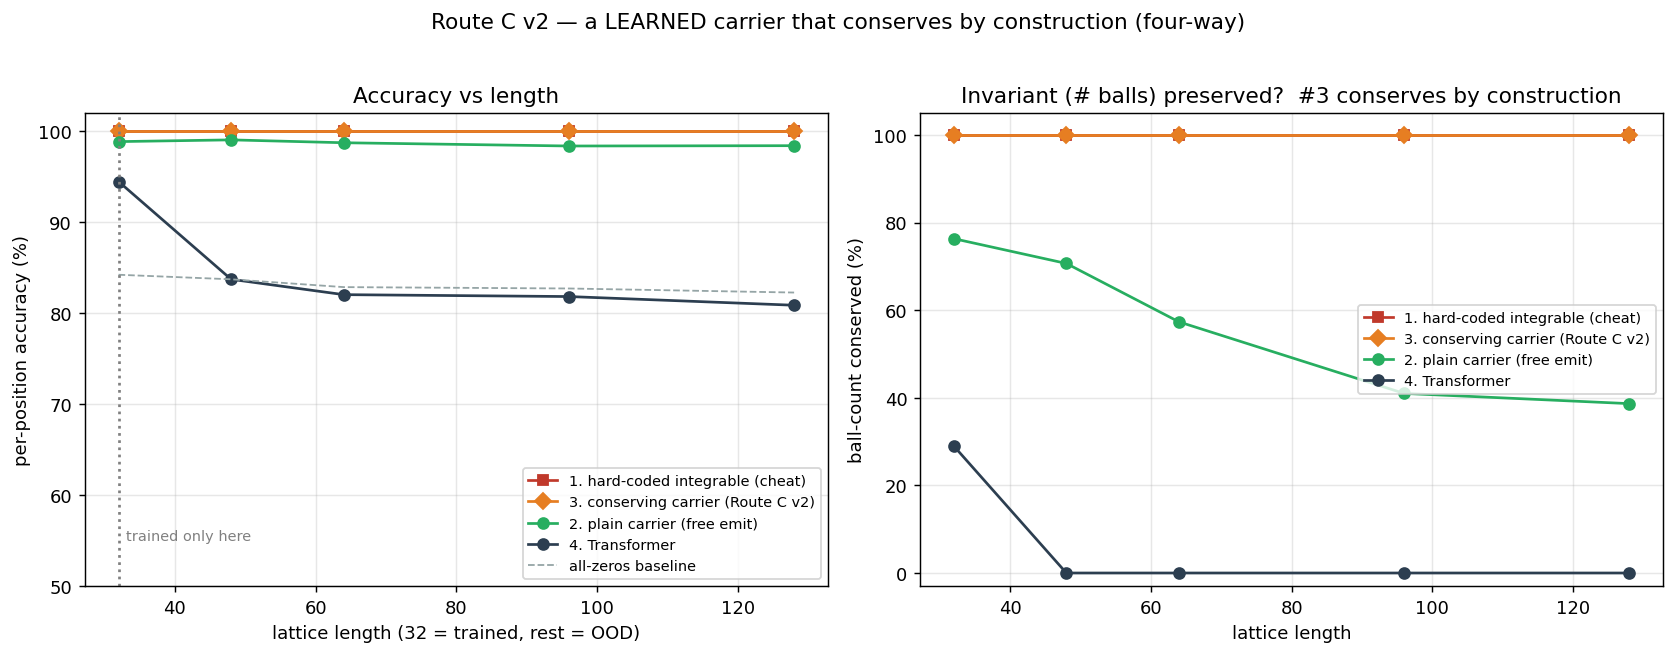
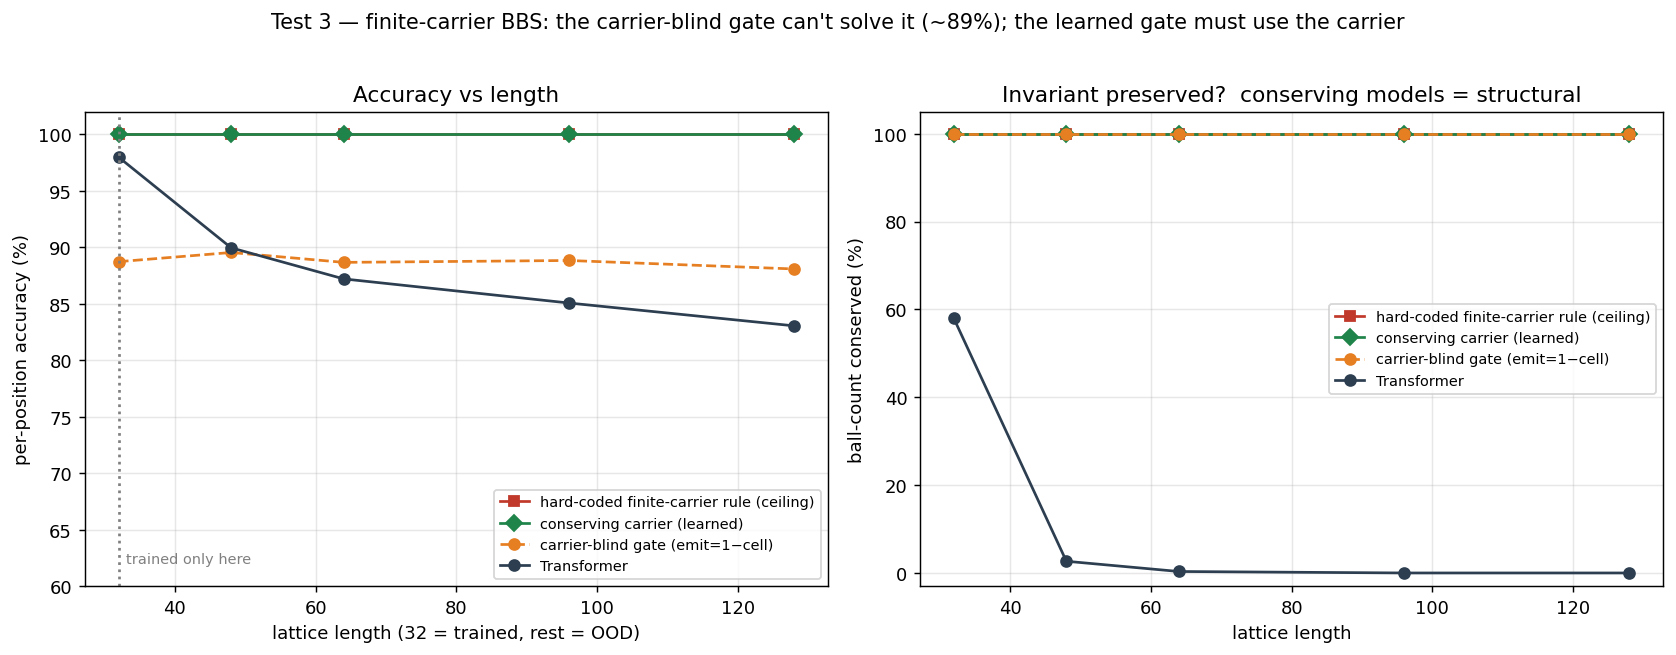
experiments: build & run the finite-carrier Test 3 (real result)
Rewrite 03_conserving_carrier.py for finite-carrier BBS (K=2): carrier holds at
most K balls; when full an arriving ball must pass through, so the emit decision
must read the carrier count k. Self-check verifies the target is conserved +
reversible before training.

Result (committed run): carrier-blind gate (emit=1-cell) tops out at ~88-89%;
the learned conserving carrier reaches 100% at every OOD length (32->128) and is
100% reversible (mirror trick) -> the ~11% gap is genuinely learned (0 on plain
BBS). Both conserving models hold 100% conservation (structural); the Transformer
collapses (58%->0%). Figure adds the carrier-blind line; Test 3 architecture
diagram updated to finite-carrier ('pass when full'). README tables filled with
real numbers (EN+zh); removed the 'still to build' notes.

diff --git a/integrable_reversible/experiments/box_ball_learned_vs_transformer/03_conserving_carrier.py b/integrable_reversible/experiments/box_ball_learned_vs_transformer/03_conserving_carrier.py
@@ -1,39 +1,48 @@
 """
-The conserving carrier (the proposal's Route C) — the reversible, mass-CONSERVING carrier.
+Test 3 — conserving carrier on the FINITE-CARRIER Box-Ball System.
 
-The previous full-Route-C attempt (local gated-swap CA) had the guarantees but
-couldn't learn BBS. The fix: keep the CARRIER (left->right reach = expressive)
-but constrain its per-site update to CONSERVE ball count by construction.
+Plain BBS was dropped: welding conservation into the carrier makes its rule
+trivial (a hard-coded emit = 1 - cell already scores 100% — see the appendix in
+this folder's README). Finite-carrier BBS keeps the SAME conserving-carrier
+structure but bounds the carrier at K balls: when the carrier is FULL, an
+arriving ball must PASS THROUGH instead of being picked up. That makes the emit
+decision depend on the carrier count k, so a carrier-blind gate (emit = 1 - cell)
+can no longer solve it — the model must genuinely learn to use the carrier.
 
-Per-site update during the scan, with carrier count k and cell c:
-  total t = c + k  (the resource passing through this site)
-  the only two count-preserving outcomes (for t>=1) are:
-     "emit": out=1, k' = t-1        "hold": out=0, k' = t
-  a learned gate picks emit vs hold (for t=0 it is forced to hold).
-=> cell + carrier is preserved at every site, so sum(output) = sum(input) minus
-   whatever remains in the carrier at the end. With trailing zeros the carrier
-   empties, giving EXACT ball-count conservation. (BBS itself is just the fixed
-   rule "emit iff cell==0"; here that rule is learned.)
+Four lines:
+  1. hard-coded finite-carrier rule    -> ceiling
+  2. carrier-blind gate (emit=1-cell)   -> proves the residual is non-trivial (~89%)
+  3. conserving carrier (learned gate)  -> learns to use the carrier
+  4. Transformer                        -> no structure, collapses OOD
 
-Four lines: hard-coded integrable / conserving carrier (THIS) / plain carrier
-(free-emit, from the prototype) / Transformer. Trained on L=32, tested OOD.
+Conservation is structural (k' = t - out, holds for any gate). The finite-carrier
+BBS is verified conserved + reversible (mirror trick) before training. Trained on
+L=32, tested on 48/64/96/128.
 """
 import numpy as np, torch, torch.nn as nn, torch.nn.functional as F, math
 import matplotlib.pyplot as plt
 torch.manual_seed(0); np.random.seed(0); torch.set_num_threads(4)
 
-# ── integrable engine + data (same as the other experiments) ─────────────────
-def bbs_step(s):
-    out = np.zeros_like(s); carrier = 0
+K_CAP = 2; T_STEPS = 2; MAXSOL = 3
+
+# ── finite-carrier BBS: the carrier holds at most K balls ────────────────────
+def fc_step(s):
+    out = np.zeros_like(s); u = 0
     for i in range(len(s)):
-        if s[i] == 1: carrier += 1; out[i] = 0
+        if s[i] == 1:
+            if u < K_CAP: u += 1; out[i] = 0    # pick up (carrier has room)
+            else:         out[i] = 1            # carrier FULL -> ball passes through
         else:
-            if carrier > 0: out[i] = 1; carrier -= 1
+            if u > 0: out[i] = 1; u -= 1        # drop one
+            else:     out[i] = 0
     return out
-def bbs_run(s, T):
-    for _ in range(T): s = bbs_step(s)
+def fc_run(s, T):
+    s = s.copy()
+    for _ in range(T): s = fc_step(s)
     return s
-T_STEPS = 2; MAXSOL = 3
+def mirror(s): return s[::-1].copy()
+def fc_step_inv(s): return mirror(fc_step(mirror(s)))   # candidate inverse (mirror trick)
+
 def make_config(L, rng):
     s = np.zeros(L, dtype=np.int64); usable = int(L*0.55); i = 0; n = 0
     while i < usable - MAXSOL - 1:
@@ -46,8 +55,19 @@ def make_config(L, rng):
 def dataset(L, N, rng):
     X = np.zeros((N, L), dtype=np.int64); Y = np.zeros((N, L), dtype=np.int64)
     for j in range(N):
-        x = make_config(L, rng); X[j] = x; Y[j] = bbs_run(x, T_STEPS)
+        x = make_config(L, rng); X[j] = x; Y[j] = fc_run(x, T_STEPS)
     return torch.tensor(X), torch.tensor(Y)
+
+# ── verify the target dynamics is conserved + reversible (before any training) ─
+print("finite-carrier BBS self-check (random configs, K=%d):" % K_CAP)
+_rng = np.random.default_rng(1); _cons = _rev = True
+for L in [32, 48, 64, 96, 128]:
+    for _ in range(200):
+        x = make_config(L, _rng); y = fc_step(x)
+        if y.sum() != x.sum(): _cons = False
+        if not np.array_equal(fc_step_inv(y), x): _rev = False
+print(f"  ball-count conserved: {_cons}   reversible (mirror trick): {_rev}")
+assert _cons and _rev, "finite-carrier BBS is not conserved/reversible — fix the rule"
 
 # ── #4 Transformer ───────────────────────────────────────────────────────────
 class PE(nn.Module):
@@ -64,122 +84,100 @@ class TF(nn.Module):
         s.enc = nn.TransformerEncoder(enc, layers); s.head = nn.Linear(d, 2)
     def forward(s, x): return s.head(s.enc(s.pe(s.emb(x))))
 
-# ── #2 plain carrier (free emit, no conservation) — the prototype baseline ───
-class PlainCarrier(nn.Module):
-    def __init__(s, H=24, hid=64):
-        super().__init__(); s.H = H
-        s.net = nn.Sequential(nn.Linear(1+H, hid), nn.GELU(), nn.Linear(hid, hid), nn.GELU())
-        s.out = nn.Linear(hid, 1); s.hnext = nn.Linear(hid, H)
-    def one(s, c):
-        B, L = c.shape; h = torch.zeros(B, s.H); outs = []
-        for i in range(L):
-            z = s.net(torch.cat([c[:, i:i+1], h], dim=1)); outs.append(s.out(z)); h = torch.tanh(s.hnext(z))
-        return torch.sigmoid(torch.cat(outs, dim=1))
-    def forward(s, x, steps=T_STEPS):
-        c = x.float()
-        for _ in range(steps): c = s.one(c)
-        return c
-
-# ── #3 conserving carrier (Route C v2): per-site count-preserving emit/hold ──
+# ── conserving carrier: conservation structural (k'=t-out); gate = learned OR blind ─
 class ConservingCarrier(nn.Module):
-    def __init__(s, hid=32, Kmax=6.0):
-        super().__init__(); s.Kmax = Kmax
+    def __init__(s, hid=32, Kmax=6.0, blind=False):
+        super().__init__(); s.Kmax = Kmax; s.blind = blind
         s.gate = nn.Sequential(nn.Linear(4, hid), nn.GELU(), nn.Linear(hid, hid), nn.GELU(), nn.Linear(hid, 1))
     def one(s, xf, hard):
-        B, L = xf.shape
-        k = torch.zeros(B)                       # carrier count (integer in hard mode)
-        xp = F.pad(xf, (1, 1))
-        outs = []
+        B, L = xf.shape; k = torch.zeros(B); xp = F.pad(xf, (1, 1)); outs = []
         for i in range(L):
             c = xf[:, i]
-            feat = torch.stack([c, k / s.Kmax, xp[:, i], xp[:, i + 2]], dim=-1)  # cell, carrier, L/R neighbor
-            e = torch.sigmoid(s.gate(feat).squeeze(-1))
-            if hard:
-                eh = (e > 0.5).float(); e = eh + (e - e.detach())   # straight-through (forward hard)
-            t = c + k
-            avail = torch.clamp(t, 0.0, 1.0)      # can emit at most min(t,1)
-            out_i = e * avail                     # emit -> 1, hold -> 0 (hard); conserves: k' = t - out
-            k = t - out_i
+            if s.blind:
+                e = 1.0 - c                        # carrier-blind fixed rule: no params, ignores k & neighbors
+            else:
+                feat = torch.stack([c, k / s.Kmax, xp[:, i], xp[:, i + 2]], dim=-1)
+                e = torch.sigmoid(s.gate(feat).squeeze(-1))
+                if hard:
+                    eh = (e > 0.5).float(); e = eh + (e - e.detach())   # straight-through
+            t = c + k; avail = torch.clamp(t, 0.0, 1.0)
+            out_i = e * avail; k = t - out_i                            # conserves cell+carrier
             outs.append(out_i)
-        return torch.stack(outs, dim=1), k        # (B,L), final carrier
-    def forward(s, x, steps=T_STEPS, hard=False):
+        return torch.stack(outs, dim=1), k
+    def forward(s, x, hard=False):
         c = x.float()
-        for _ in range(steps): c, _ = s.one(c, hard)
+        for _ in range(T_STEPS): c, _ = s.one(c, hard)
         return c
-    def final_carrier(s, x, hard=True):           # for diagnostics
-        c = x.float(); tot = 0.0
-        for _ in range(T_STEPS): c, k = s.one(c, hard); tot = k
-        return tot
 
-# ── train #2,#3,#4 on L=32 ───────────────────────────────────────────────────
-rng = np.random.default_rng(0); L_TRAIN = 32
-Xtr, Ytr = dataset(L_TRAIN, 2500, rng); B = 256
+# ── train Transformer + conserving carrier on L=32 ───────────────────────────
+rng = np.random.default_rng(0); Xtr, Ytr = dataset(32, 2500, rng); B = 256
 ce = nn.CrossEntropyLoss(); bce = nn.BCELoss()
 
-def fit(model, kind, epochs, lr):
-    opt = torch.optim.AdamW(model.parameters(), lr=lr)
-    for ep in range(epochs):
-        perm = torch.randperm(len(Xtr)); tot = 0.0
-        for i in range(0, len(Xtr), B):
-            idx = perm[i:i+B]
-            if kind == "tf":   loss = ce(model(Xtr[idx]).reshape(-1, 2), Ytr[idx].reshape(-1))
-            elif kind == "cc": loss = bce(model(Xtr[idx], hard=False).clamp(1e-6, 1-1e-6), Ytr[idx].float())
-            else:              loss = bce(model(Xtr[idx]).clamp(1e-6, 1-1e-6), Ytr[idx].float())
-            opt.zero_grad(); loss.backward(); opt.step(); tot += loss.item()*len(idx)
-        if (ep+1) % max(1, epochs//4) == 0: print(f"  {kind} ep {ep+1:2d} loss {tot/len(Xtr):.4f}")
+print("training Transformer ...")
+tf = TF(); opt = torch.optim.AdamW(tf.parameters(), lr=1e-3)
+for ep in range(28):
+    perm = torch.randperm(len(Xtr))
+    for i in range(0, len(Xtr), B):
+        idx = perm[i:i+B]; loss = ce(tf(Xtr[idx]).reshape(-1, 2), Ytr[idx].reshape(-1))
+        opt.zero_grad(); loss.backward(); opt.step()
+    if (ep+1) % 7 == 0: print(f"  TF ep {ep+1:2d} loss {loss.item():.4f}")
 
-print("training Transformer ...");         tf = TF();               fit(tf, "tf", 28, 1e-3)
-print("training plain carrier ...");       pc = PlainCarrier();     fit(pc, "pc", 40, 3e-3)
-print("training conserving carrier ...");  cc = ConservingCarrier(); fit(cc, "cc", 40, 3e-3)
+print("training conserving carrier ...")
+cc = ConservingCarrier(); optc = torch.optim.Adam(cc.parameters(), lr=3e-3)
+for ep in range(40):
+    perm = torch.randperm(len(Xtr))
+    for i in range(0, len(Xtr), B):
+        idx = perm[i:i+B]; p = cc(Xtr[idx], hard=False)
+        loss = bce(p.clamp(1e-6, 1-1e-6), Ytr[idx].float())
+        optc.zero_grad(); loss.backward(); optc.step()
+    if (ep+1) % 10 == 0: print(f"  CC ep {ep+1:2d} loss {loss.item():.4f}")
 
-# ── evaluate four lines + reversibility of the conserving carrier ─────────────
-tf.eval(); pc.eval(); cc.eval()
+blind = ConservingCarrier(blind=True)   # no training
+
+# ── evaluate four lines across lengths ───────────────────────────────────────
+tf.eval(); cc.eval()
 lengths = [32, 48, 64, 96, 128]
-R = {k: {"acc": [], "cons": []} for k in ["int", "cc", "pc", "tf"]}; zero = []
+R = {k: {"acc": [], "cons": []} for k in ["ceil", "cc", "blind", "tf"]}
 rng_te = np.random.default_rng(123)
-print("\n L    all-0    TF acc/cons     plainCarrier acc/cons    consCarrier acc/cons     integrable")
+print("\n L    ceiling      carrier-blind      conserving-carrier      Transformer   (acc / cons)")
 with torch.no_grad():
     for L in lengths:
-        Xte, Yte = dataset(L, 300, rng_te); zero.append((Yte == 0).float().mean().item()*100)
+        Xte, Yte = dataset(L, 300, rng_te)
         def ac(pred): return (pred == Yte).float().mean().item()*100, (pred.sum(1) == Xte.sum(1)).float().mean().item()*100
-        ta, tc = ac(tf(Xte).argmax(-1))
-        pa, pco = ac((pc(Xte) > 0.5).long())
-        ca, cco = ac((cc(Xte, hard=True) > 0.5).long())
-        R["int"]["acc"].append(100.0); R["int"]["cons"].append(100.0)
-        R["tf"]["acc"].append(ta); R["tf"]["cons"].append(tc)
-        R["pc"]["acc"].append(pa); R["pc"]["cons"].append(pco)
-        R["cc"]["acc"].append(ca); R["cc"]["cons"].append(cco)
-        print(f"{L:3d}  {zero[-1]:5.1f}%   {ta:5.1f}/{tc:5.1f}     {pa:5.1f}/{pco:5.1f}         {ca:5.1f}/{cco:5.1f}         100/100")
+        ba = ac((blind(Xte, hard=True) > 0.5).long())
+        ca = ac((cc(Xte, hard=True) > 0.5).long())
+        ta = ac(tf(Xte).argmax(-1))
+        R["ceil"]["acc"].append(100.0); R["ceil"]["cons"].append(100.0)
+        R["blind"]["acc"].append(ba[0]); R["blind"]["cons"].append(ba[1])
+        R["cc"]["acc"].append(ca[0]);    R["cc"]["cons"].append(ca[1])
+        R["tf"]["acc"].append(ta[0]);    R["tf"]["cons"].append(ta[1])
+        print(f"{L:3d}   100/100     {ba[0]:5.1f}/{ba[1]:5.1f}      {ca[0]:5.1f}/{ca[1]:5.1f}         {ta[0]:5.1f}/{ta[1]:5.1f}")
 
-    # reversibility of the conserving carrier via the BBS mirror trick: inv = mirror.f.mirror
-    def mirror(z): return torch.flip(z, dims=[1])
-    ok = tot = 0
-    rng_rv = np.random.default_rng(7)
+    # reversibility of the learned conserving carrier (mirror trick, whole sequence)
+    def tmirror(z): return torch.flip(z, dims=[1])
+    ok = tot = 0; rng_rv = np.random.default_rng(7)
     for L in lengths:
-        Xrv, _ = dataset(L, 100, rng_rv)
-        y = (cc(Xrv, hard=True) > 0.5).long()
-        # invert 2 steps: each step inverse = mirror . step . mirror
-        z = y.float()
+        Xrv, _ = dataset(L, 100, rng_rv); y = (cc(Xrv, hard=True) > 0.5).float()
+        z = y
         for _ in range(T_STEPS):
-            zk, _ = cc.one(mirror(z), hard=True); z = mirror(zk)
-        xrec = (z > 0.5).long()
-        ok += (xrec == Xrv).all(dim=1).sum().item(); tot += len(Xrv)
+            zk, _ = cc.one(tmirror(z), hard=True); z = tmirror(zk)
+        ok += ((z > 0.5).long() == Xrv).all(dim=1).sum().item(); tot += len(Xrv)
     print(f"\nconserving-carrier exact reversibility (mirror trick), whole-sequence: {100*ok/tot:.1f}%")
 
 # ── figure ───────────────────────────────────────────────────────────────────
-CI, CCC, CPC, CTF, CZ = "#c0392b", "#e67e22", "#27ae60", "#2c3e50", "#95a5a6"
+CI, CCC, CB, CTF = "#c0392b", "#1e8449", "#e67e22", "#2c3e50"
 fig, ax = plt.subplots(1, 2, figsize=(13, 4.9))
 for a, key in [(0, "acc"), (1, "cons")]:
-    ax[a].plot(lengths, R["int"][key], "s-", color=CI,  label="1. hard-coded integrable (cheat)")
-    ax[a].plot(lengths, R["cc"][key],  "D-", color=CCC, label="3. conserving carrier (Route C v2)")
-    ax[a].plot(lengths, R["pc"][key],  "o-", color=CPC, label="2. plain carrier (free emit)")
-    ax[a].plot(lengths, R["tf"][key],  "o-", color=CTF, label="4. Transformer")
-ax[0].plot(lengths, zero, "--", color=CZ, lw=1, label="all-zeros baseline")
-ax[0].axvline(32, ls=":", color="gray"); ax[0].text(33, 55, "trained only here", fontsize=8, color="gray")
+    ax[a].plot(lengths, R["ceil"][key], "s-", color=CI,  label="hard-coded finite-carrier rule (ceiling)")
+    ax[a].plot(lengths, R["cc"][key],   "D-", color=CCC, label="conserving carrier (learned)")
+    ax[a].plot(lengths, R["blind"][key],"o--",color=CB,  label="carrier-blind gate (emit=1−cell)")
+    ax[a].plot(lengths, R["tf"][key],   "o-", color=CTF, label="Transformer")
+ax[0].axvline(32, ls=":", color="gray"); ax[0].text(33, 62, "trained only here", fontsize=8, color="gray")
 ax[0].set_xlabel("lattice length (32 = trained, rest = OOD)"); ax[0].set_ylabel("per-position accuracy (%)")
-ax[0].set_ylim(50, 102); ax[0].set_title("Accuracy vs length"); ax[0].legend(fontsize=8); ax[0].grid(alpha=0.3)
+ax[0].set_ylim(60, 102); ax[0].set_title("Accuracy vs length"); ax[0].legend(fontsize=8); ax[0].grid(alpha=0.3)
 ax[1].set_xlabel("lattice length"); ax[1].set_ylabel("ball-count conserved (%)"); ax[1].set_ylim(-3, 105)
-ax[1].set_title("Invariant (# balls) preserved?  #3 conserves by construction"); ax[1].legend(fontsize=8); ax[1].grid(alpha=0.3)
-fig.suptitle("Route C v2 — a LEARNED carrier that conserves by construction (four-way)", fontsize=12, y=1.02)
+ax[1].set_title("Invariant preserved?  conserving models = structural"); ax[1].legend(fontsize=8); ax[1].grid(alpha=0.3)
+fig.suptitle("Test 3 — finite-carrier BBS: the carrier-blind gate can't solve it (~89%); the learned gate must use the carrier",
+             fontsize=11.5, y=1.02)
 fig.tight_layout(); fig.savefig("03_conserving_carrier.png", dpi=130, bbox_inches="tight")
 print("saved 03_conserving_carrier.png")

diff --git a/integrable_reversible/experiments/box_ball_learned_vs_transformer/architecture_diagrams.py b/integrable_reversible/experiments/box_ball_learned_vs_transformer/architecture_diagrams.py
@@ -127,7 +127,7 @@ def draw_02():
 # ══════════════════════════ Test 3 ══════════════════════════
 def draw_03():
     fig, ax = plt.subplots(figsize=(11.5, 7.4)); ax.set_xlim(-0.3, 9.3); ax.set_ylim(0, 10); ax.axis("off")
-    ax.set_title("Test 3 — conserving carrier  ·  same left→right scan, but each step CONSERVES", fontsize=13, color=GREEN, pad=12)
+    ax.set_title("Test 3 — conserving carrier on finite-carrier BBS  ·  the emit decision must use the carrier", fontsize=12.5, color=GREEN, pad=12)
     tokens(ax, 0.9, IN, "#e2f0e6"); ax.text(4.5, 0.12, "input: 0/1 Box-Ball state", ha="center", fontsize=9, color="#666")
     cy = 3.3
     for x in TOK:
@@ -137,15 +137,15 @@ def draw_03():
     ax.annotate("", xy=(TOK[0]-0.58, cy), xytext=(0.5, cy), arrowprops=dict(arrowstyle="-|>", color=GREEN, lw=1.7))
     for i in range(len(TOK)-1):
         ax.annotate("", xy=(TOK[i+1]-0.58, cy), xytext=(TOK[i]+0.58, cy), arrowprops=dict(arrowstyle="-|>", color=GREEN, lw=1.7))
-    ax.text((TOK[0]+TOK[1])/2, cy+0.42, "carrier  k  =  #balls held  (integer)", ha="center", fontsize=8.5, color=GREEN, style="italic")
+    ax.text((TOK[0]+TOK[1])/2, cy+0.42, "carrier  k  =  #balls held  (0…K, capacity K)", ha="center", fontsize=8.5, color=GREEN, style="italic")
     tokens(ax, 5.55, OUT, "#e2f0e6"); ax.text(4.5, 6.2, "output: predicted state 2 steps later", ha="center", fontsize=9, color="#666")
     box(ax, 4.5, 8.35, 9.0, 1.35,
         "zoom · one cell —  total  t = cell + k  (a learned gate picks one of the only two count-preserving moves):\n"
         "EMIT → out=1, k→t−1        or        HOLD → out=0, k→t          (t=0 ⇒ forced HOLD)",
         "#f0faf2", ec=GREEN, fs=9.5)
     ax.annotate("", xy=(4.5, 7.68), xytext=(TOK[2], cy + 0.55), arrowprops=dict(arrowstyle="-", color=GREEN, lw=0.9, ls=":"))
-    ax.text(4.5, -0.35, "cell + carrier preserved at EVERY step ⇒ conserves by construction ·  'emit iff cell==0' = BBS (learned)  ·  100% acc / 100% conserved / 100% reversible",
-            ha="center", va="top", fontsize=9.5, color=GREEN)
+    ax.text(4.5, -0.35, "cell + carrier preserved at EVERY step ⇒ conserves by construction ·  emit must read k ('pass the ball when the carrier is full') — NON-trivial ·  learned 100% vs carrier-blind ~89%",
+            ha="center", va="top", fontsize=9.2, color=GREEN)
     fig.tight_layout(rect=[0, 0.03, 1, 0.97]); fig.savefig("architecture_03_conserving_carrier.png", dpi=140, bbox_inches="tight")
     print("saved architecture_03_conserving_carrier.png"); plt.close(fig)
 

diff --git a/integrable_reversible/experiments/box_ball_learned_vs_transformer/README.md b/integrable_reversible/experiments/box_ball_learned_vs_transformer/README.md
@@ -90,24 +90,27 @@ Weld the guarantees. A stack of **gated swaps** of adjacent cells: a swap conser
 
 > Plain BBS was dropped: welding conservation into the carrier makes its rule *trivial* — a hard-coded `emit = 1 − cell` already scores 100% (nothing left to learn; see the audit table above). Finite-carrier BBS keeps the same structure but makes the rule non-trivial.
 
-*Design — verified in a quick check; the full run will replace `03_conserving_carrier.py`.*
+*Script: [`03_conserving_carrier.py`](03_conserving_carrier.py)*
 
-**The fix.** Keep everything that was good — the conserving-carrier structure (conservation stays **structural**), the length-extrapolation setup, the Transformer baseline — but change the **task** from plain BBS to **finite-carrier BBS**: the carrier (the basket) now holds at most **K balls**. When it is **full**, an arriving ball must **pass through** instead of being picked up. That one change makes the emit decision **depend on the carrier count `k`**, so `emit = 1 − cell` no longer works — the model is *forced* to learn to use the carrier.
+**The fix.** Keep everything that was good — the conserving-carrier structure (conservation stays **structural**), the length-extrapolation setup, the Transformer baseline — but change the **task** from plain BBS to **finite-carrier BBS**: the carrier (the basket) now holds at most **K balls** (here K=2). When it is **full**, an arriving ball must **pass through** instead of being picked up. That one change makes the emit decision **depend on the carrier count `k`**, so `emit = 1 − cell` no longer works — the model is *forced* to learn to use the carrier.
 
-Verified in a quick check (K=2, predict 2 steps, same conserving-carrier structure):
+![Test 3](03_conserving_carrier.png)
 
-| model | accuracy (OOD, L=48→128) | conserved | note |
-|---|---|---|---|
-| hard-coded finite-carrier rule | 100% | 100% | ceiling |
-| **carrier-blind gate** (`emit = 1 − cell`) | **~89%** | 100% | ← proves the residual is now **non-trivial** |
-| **conserving carrier (learned)** | **100%** | 100% | learns to use the carrier; holds to L=128 |
-| Transformer | collapses (expected) | ~0% | no structure |
+Trained on L=32, tested OOD (finite-carrier BBS verified conserved + reversible before training):
 
-- **Finite-carrier BBS is conserved + reversible** — both checked numerically over random configs (reversible via the mirror trick).
-- **Conservation stays structural** (`k' = t − out` bookkeeping → 100% for any gate) — the good half of the old design is kept.
-- **The learning is now real**: a carrier-blind gate tops out at **~89%**, while the learned gate reaches **100%** only by using the carrier (learning "pass through when the basket is full"). Training loss → ~0.003 (it *had* to learn something), vs plain-BBS's ~0.0001 (nothing to learn).
+| Length | ceiling (hard-coded) | carrier-blind (`emit=1−cell`) acc / cons | **conserving carrier (learned)** acc / cons | Transformer acc / cons |
+|---|---|---|---|---|
+| 32 (train) | 100 / 100 | 88.7 / 100 | **100 / 100** | 98.0 / 58.0 |
+| 48 | 100 / 100 | 89.5 / 100 | **100 / 100** | 90.0 / 2.7 |
+| 64 | 100 / 100 | 88.7 / 100 | **100 / 100** | 87.2 / 0.3 |
+| 96 | 100 / 100 | 88.8 / 100 | **100 / 100** | 85.1 / 0.0 |
+| 128 | 100 / 100 | 88.1 / 100 | **100 / 100** | 83.0 / 0.0 |
 
-**Still to build** (turns this design into a committed result): rewrite `03_conserving_carrier.py` for finite-carrier BBS and add the carrier-blind line to the figure; update the architecture diagram (carrier now finite → "pass when full"); fill this table from the committed run.
+Reversibility of the learned conserving carrier (whole-sequence, mirror trick): **100%**.
+
+- **The learning is real (not leaked)**: the carrier-blind gate `emit=1−cell` tops out at **~88–89%**; the learned gate reaches **100%** only by using the carrier (it learns "pass the ball through when the carrier is full"). That ~11% is the genuinely-learned part — on plain BBS the same gap was 0 (see appendix).
+- **Conservation stays structural**: both conserving models (blind and learned) hold **100%** at every length (`k'=t−out`), while the Transformer's conservation collapses (58% → 0%).
+- **Honest boundary**: this shows a non-trivial learnable residual on a conserving structure — it does **not** claim "no leak" (the carrier scan + conservation accounting are still hard-coded) or a "fair" win over the Transformer (see the audit table above).
 
 ---
 
